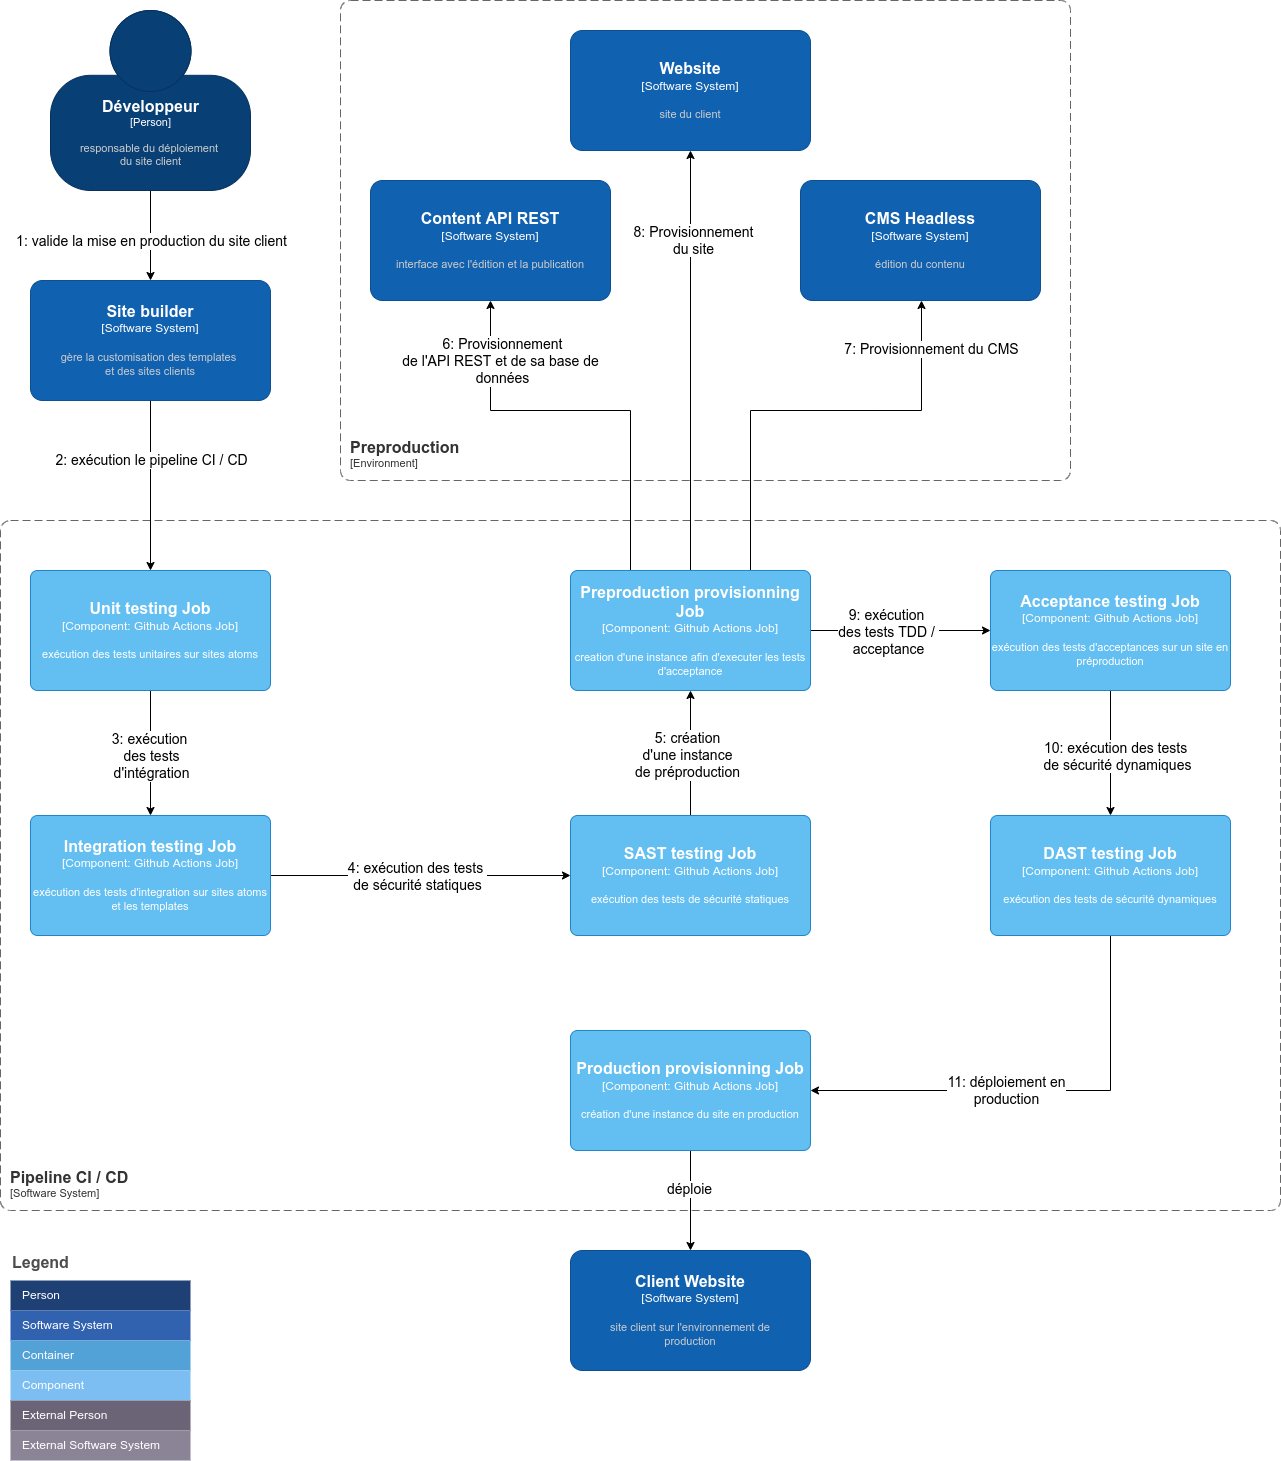
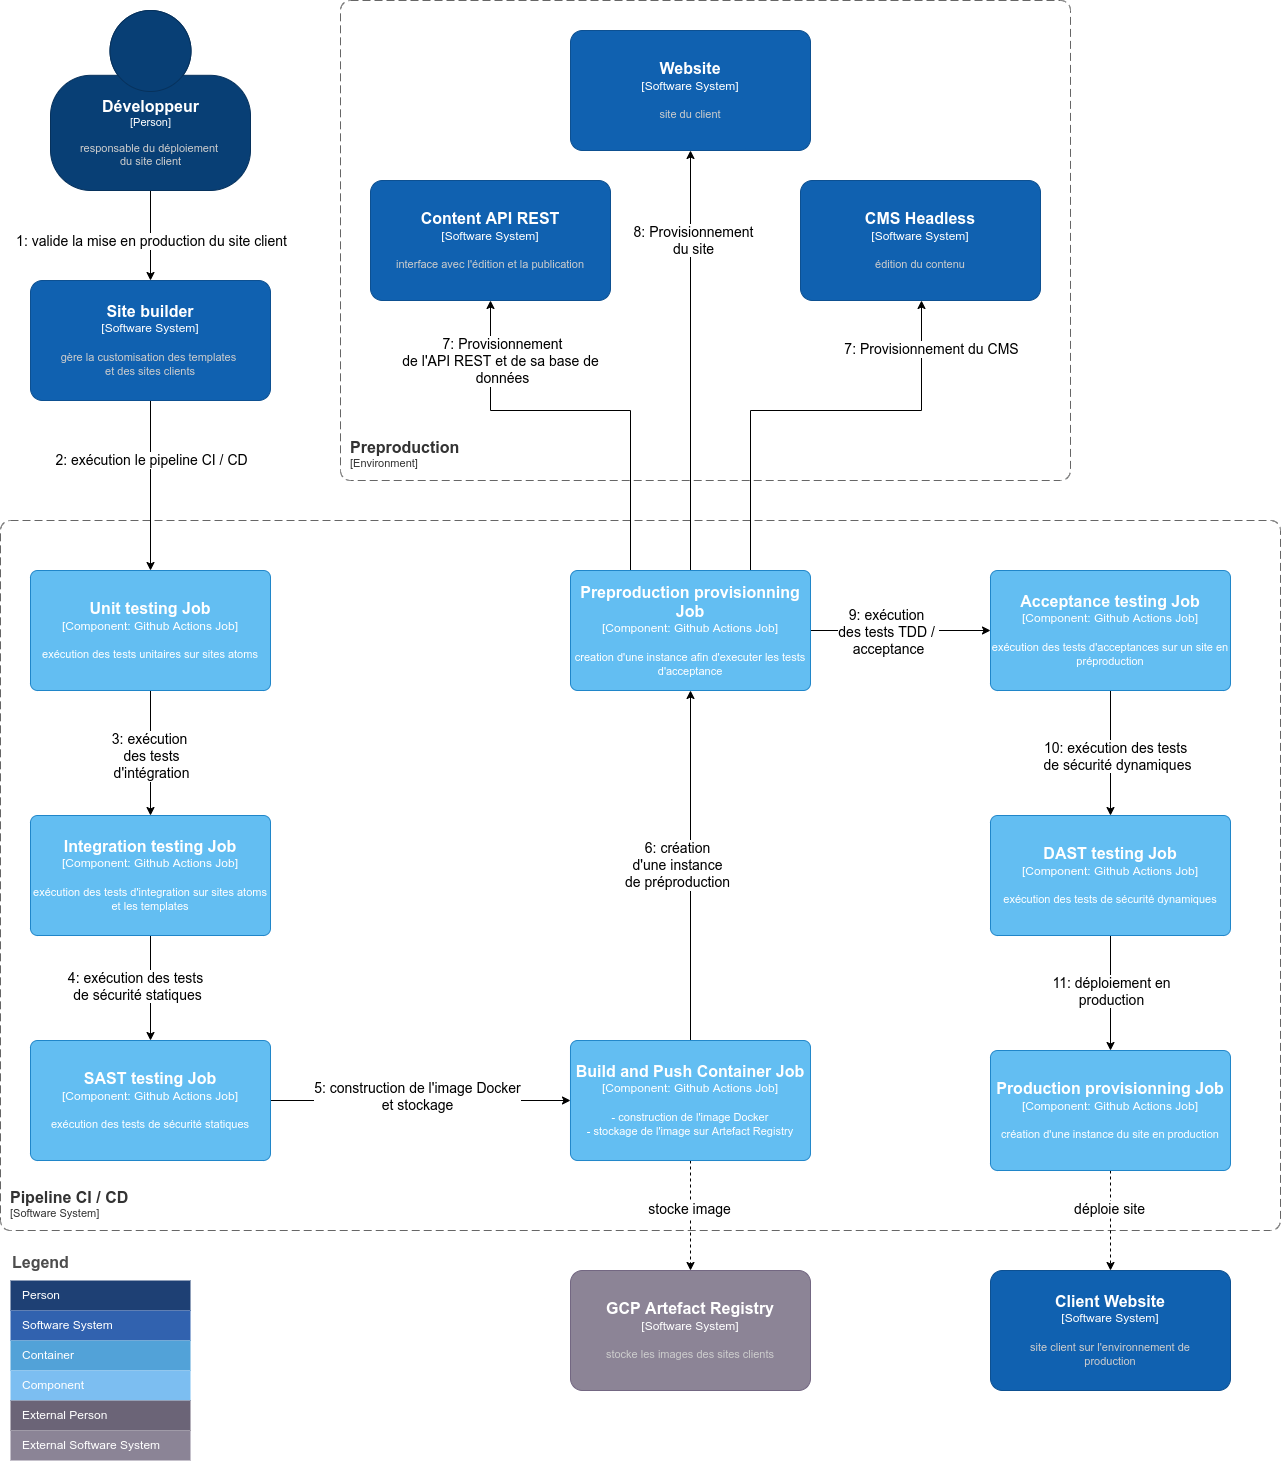
maj de la presentation p12

diff --git a/index.html b/index.html
@@ -208,7 +208,8 @@
           en insistant sur les qualités non-fonctionnelles
         </p>
         <aside class="notes">
-          en insistant sur les qualités non-fonctionnelles que je présenterai plus tard et la selection et l'éventuelle adaptation des exigences fonctionnelles
+          en insistant sur les qualités non-fonctionnelles que je présenterai plus tard mais aussi par la selection et l'éventuelle adaptation des exigences fonctionnelles
+          liées à la demande de changement
         </aside>
       </section>
 
@@ -217,16 +218,17 @@
         <p class="header"><span class="complementaire">Solution B</span></p>
         <img style="margin: 0;" src="projet12/solutionB_Context.png" />
         <aside class="notes">
-          Comme on le remarque sur le diagramme de contexte suivant, l'architecture est de type multitenant hybride.
+          Comme on le remarque sur le diagramme de contexte C4 suivant, l'architecture est de type multitenant hybride.
           Sur le coté gauche, le client 1 héberge lui meme ses données, peut modifier le contenu grace à l'usage d'un CMS
-          et expose ses données à travers une API REST: il s'agit d'une mode d'isolation le plus strict.
+          et expose ses données à travers une API REST propre au secteur d'activité du client: il s'agit d'une mode d'isolation le plus strict.
+          Bien sur le site internet reste héberger sur l'infrastruture de Webstreet, nous verrons avec quelle technologie dans les slides suivantes.
 
           Sur le coté droit du schéma, Le client 2 utilise également un CMS et une API REST mais ces deniers sont provisionnés et gérés par 
-          l'agence. 
+          Webstreet. 
           Nous verrons dans un diagramme d'architecture technologique que les données du client 2 sont stockés sur une base de 
           données communes pour tous les clients de Webstreet ayant choisi cette modalité d'hébergement.
 
-          Le processus de mise à jour est assurée par un pipeline d'intégration et de déploiement continu pour chaque site client.
+          Le processus de mise à jour est quant à lui assuré par un pipeline d'intégration et de déploiement continu pour chaque site client.
         </aside>
       </section>
 
@@ -234,7 +236,19 @@
         <p class="header"><span class="complementaire">Architecture technologique : </span>single-tenant</p>
         <img style="margin: 0;" src="projet12/archi-techno-isolated-tenant.png" />
         <aside class="notes">
-          Comme on le remarque sur le schéma, l'architecture lorsque le client souhaite isolé ses données
+          L'architecture technologique est divisé en deux diagrammes, celui à l'écran décrit les spécificatés de l'architecture single tenant.
+          Avant de détailler les spécificités de l'architecture single tenant, on peut remarquer que le code source des sites
+          sera hébergé sur la plateforme Github et que le pipeline d'intégration continue sera implémenté avec Github Actions sous forme de fichier yaml.
+          Pour le reste, nous utiliserons massivement l'usage de la plateforme cloud Google Cloud Platform, avec des services comme Artefacts Registry,
+          nous permettant de disposer d'un Registry Docker pour sotcker les images docker des sites internet et des API REST.
+          Les sites internets seront hébergés coté webstreet mais déployé sur des instance de cloud run séparées. La gestion du monitoring et
+          de l'observabilité passera par des services tel que cloud monitoring. La gestion des secrets partagés avec GCP secret manager.
+          
+          On remarque d'ailleurs que dans l'architecture de type single tenant pour accéder au données hébergées et gérées par le client, 
+          le site internet a besoin d'une api key l'autorisant à consulter les ressources de l'API REST et que toutes les communications sont chiffrées.
+          Nous proposerons au client des scripts suivant la mouvance de l'infrastrcuture as code, afin qu'il puisse déployer l'API REST, le CMS 
+          sur Google cloud platform avec l'utilisation des services automangés comme la base de données Cloud SQL sur base postgresql ou encore
+          le service de stockage de fichiers Google cloud storage.
 
           TODO: Dire pour l'architecture technologique que le choix de cloud run s'est aussi fait sur la base que
           peu importe la technoilogie si il est possible de la dockeriser c'est bon
@@ -248,7 +262,9 @@
         <p class="header"><span class="complementaire">Architecture technologique : </span>multi-tenant</p>
         <img style="margin: 0;" width="80%" src="projet12/archi-techno-shared-tenant.png" />
         <aside class="notes">
-          TODO
+          Lorsque le client souhaite déléguer l'hébergement de ces données à Webstreet, nous allons créer une instance de Google cloud run sur l'infrastrcuture 
+          de webstreet. L'API REST et le CMS communiqueront avec la base de données mutualisé pour ce genre de client: la segmentation se fera sur la base de schéma
+          séparé au sein de la meme base de données. Cela aura pour avantage de réduire les couts sur la plateforme cloud.
         </aside>
       </section>
 
@@ -256,7 +272,11 @@
         <p class="header"><span class="complementaire">Architecture technologique : </span>Pipeline CI / CD</p>
         <img style="margin: 0;" width="55%" src="projet12/pipeline-ci.png" />
         <aside class="notes">
-          TODO
+          le pipeline CI / CD est constitué de 8 job Github Actions permettant:
+          - d'exécuter les tests unitaires, tests d'intégration, tests d'acceptance
+          - mais aussi d'exécuter des tests complémentaires de sécurité (statique et dynamique)
+          Le pipeline permet le provisionnement d'un environnement de préproduction, le stockage des images docker
+          dans un registry privé, et le déploiement d'un site internet sur son environnement de production
         </aside>
       </section>
 
@@ -269,7 +289,12 @@
           dépendance liée à l'infrastructure cliente
         </p>
         <aside class="notes">
-          dépendance liée à l'infrastructure cliente entrainant des latences réseaux
+          introduction d'un nouveau socle technologique avec l'usage de la plateforme cloud, la conteneurisation des sites clients et l'ajout d'une API REST et d'un CMS.
+          Ce implique de former les équipes techniques en place, en particulier les experts du groupe AMG
+          (Architecture Method Guardians)
+
+          dépendance liée à l'infrastructure cliente entrainant par exemple de la latence à réseau avec l’API REST hébergée sur l’infrastructure client, ce qui
+          nous obligera à Utiliser des techniques de réduction de la latence : CDN, caching, lazy loading, minifying.
         </aside>
       </section>
 
